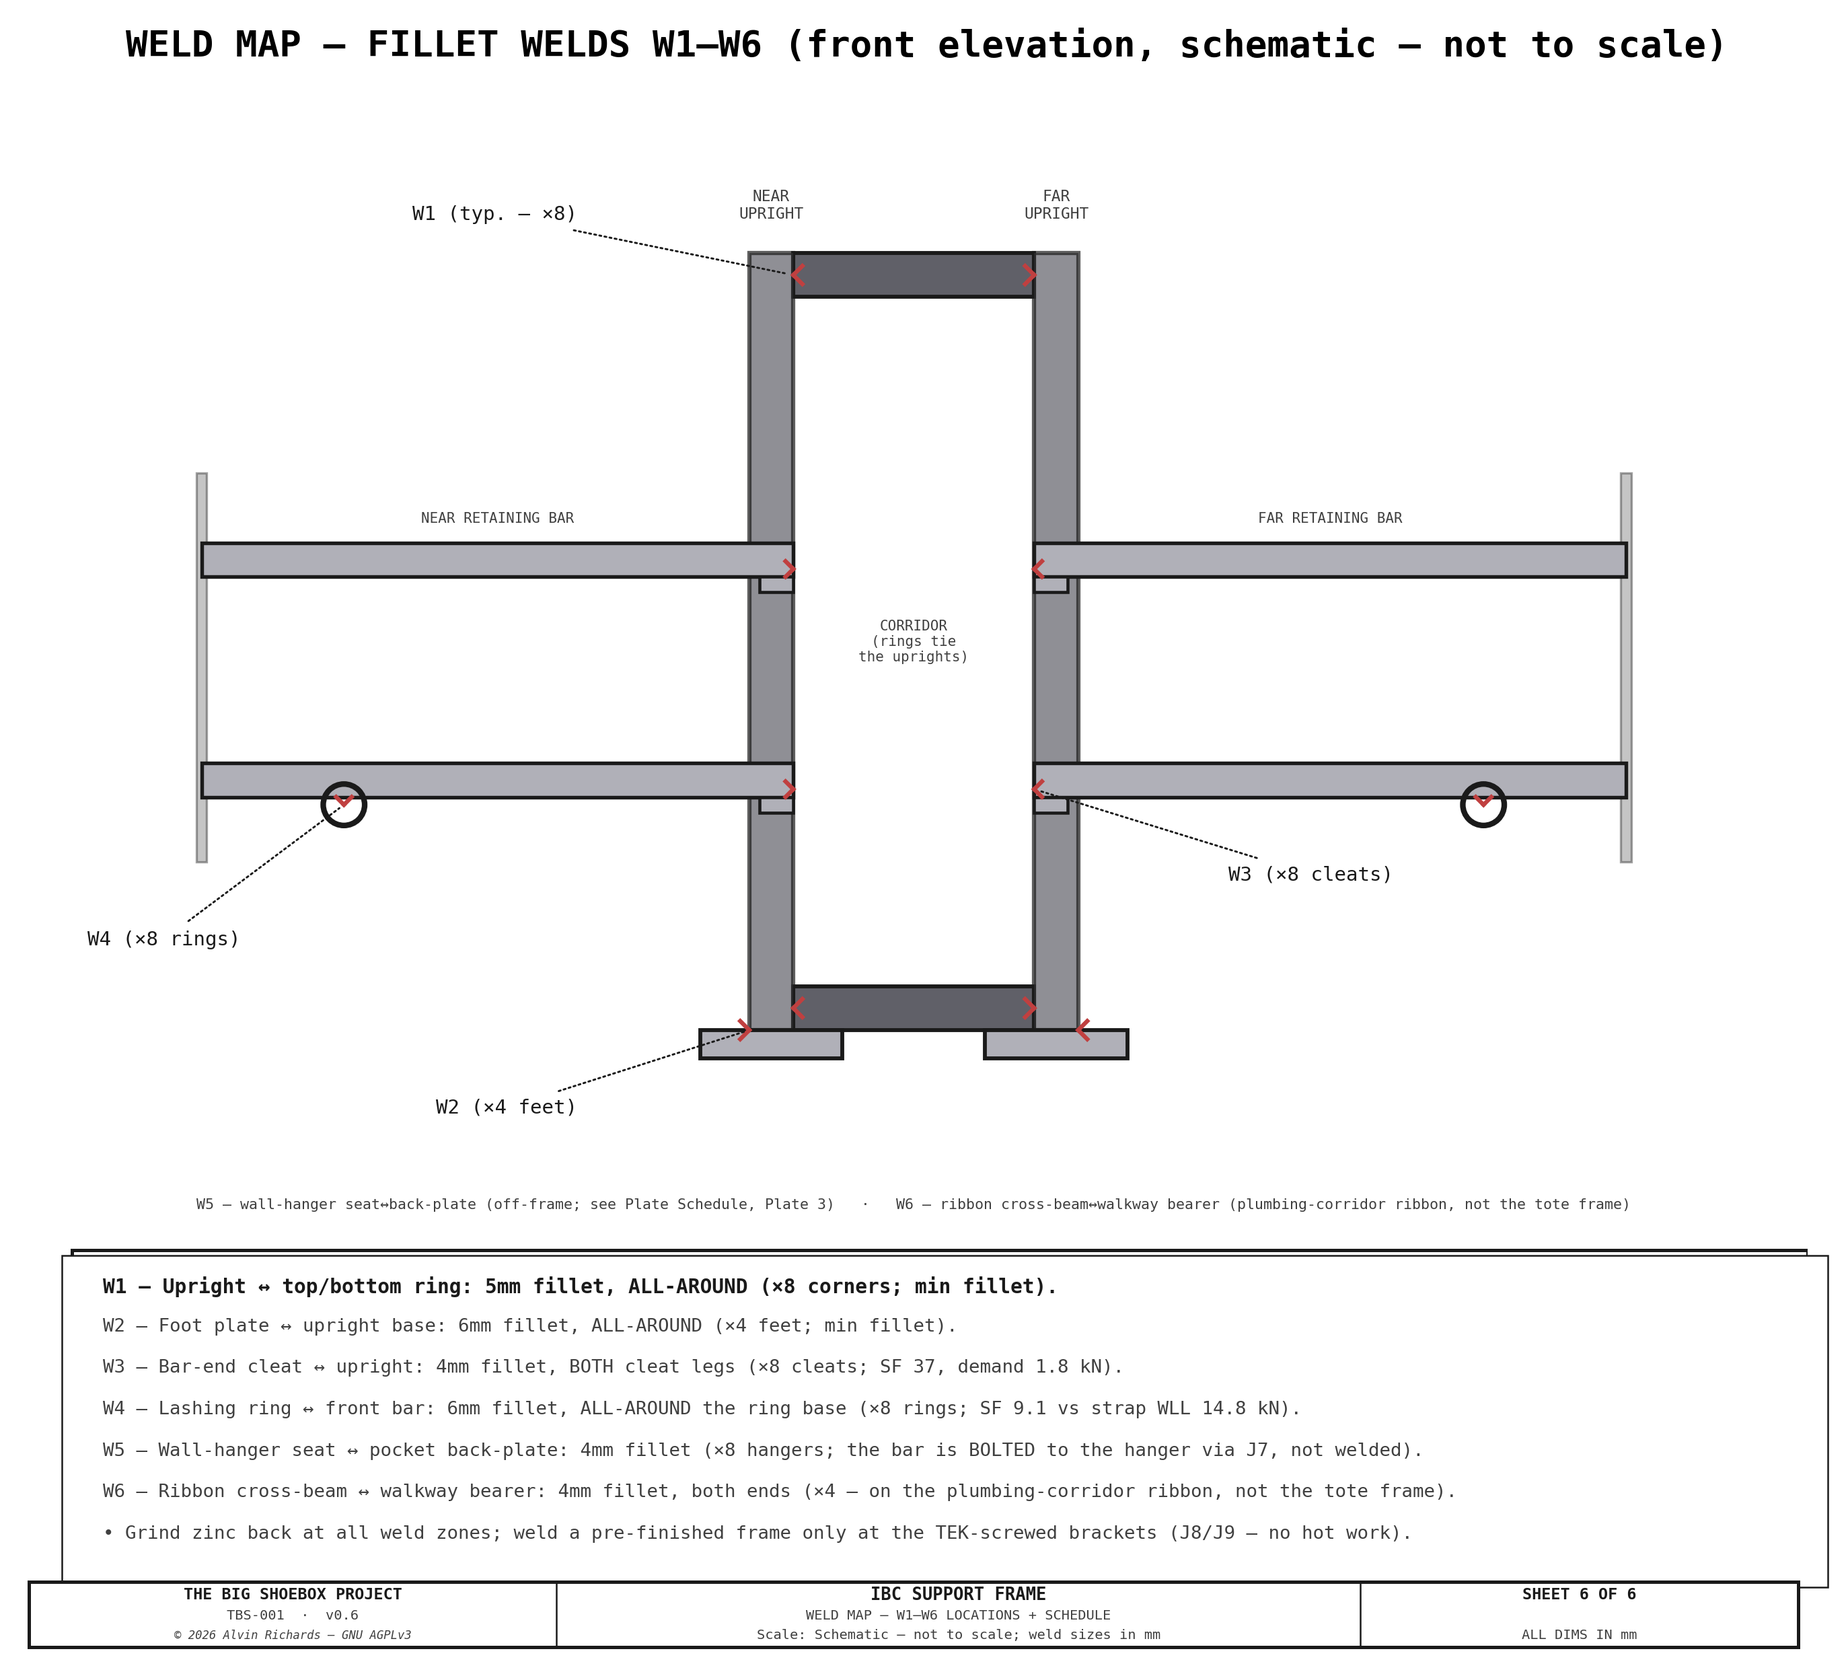
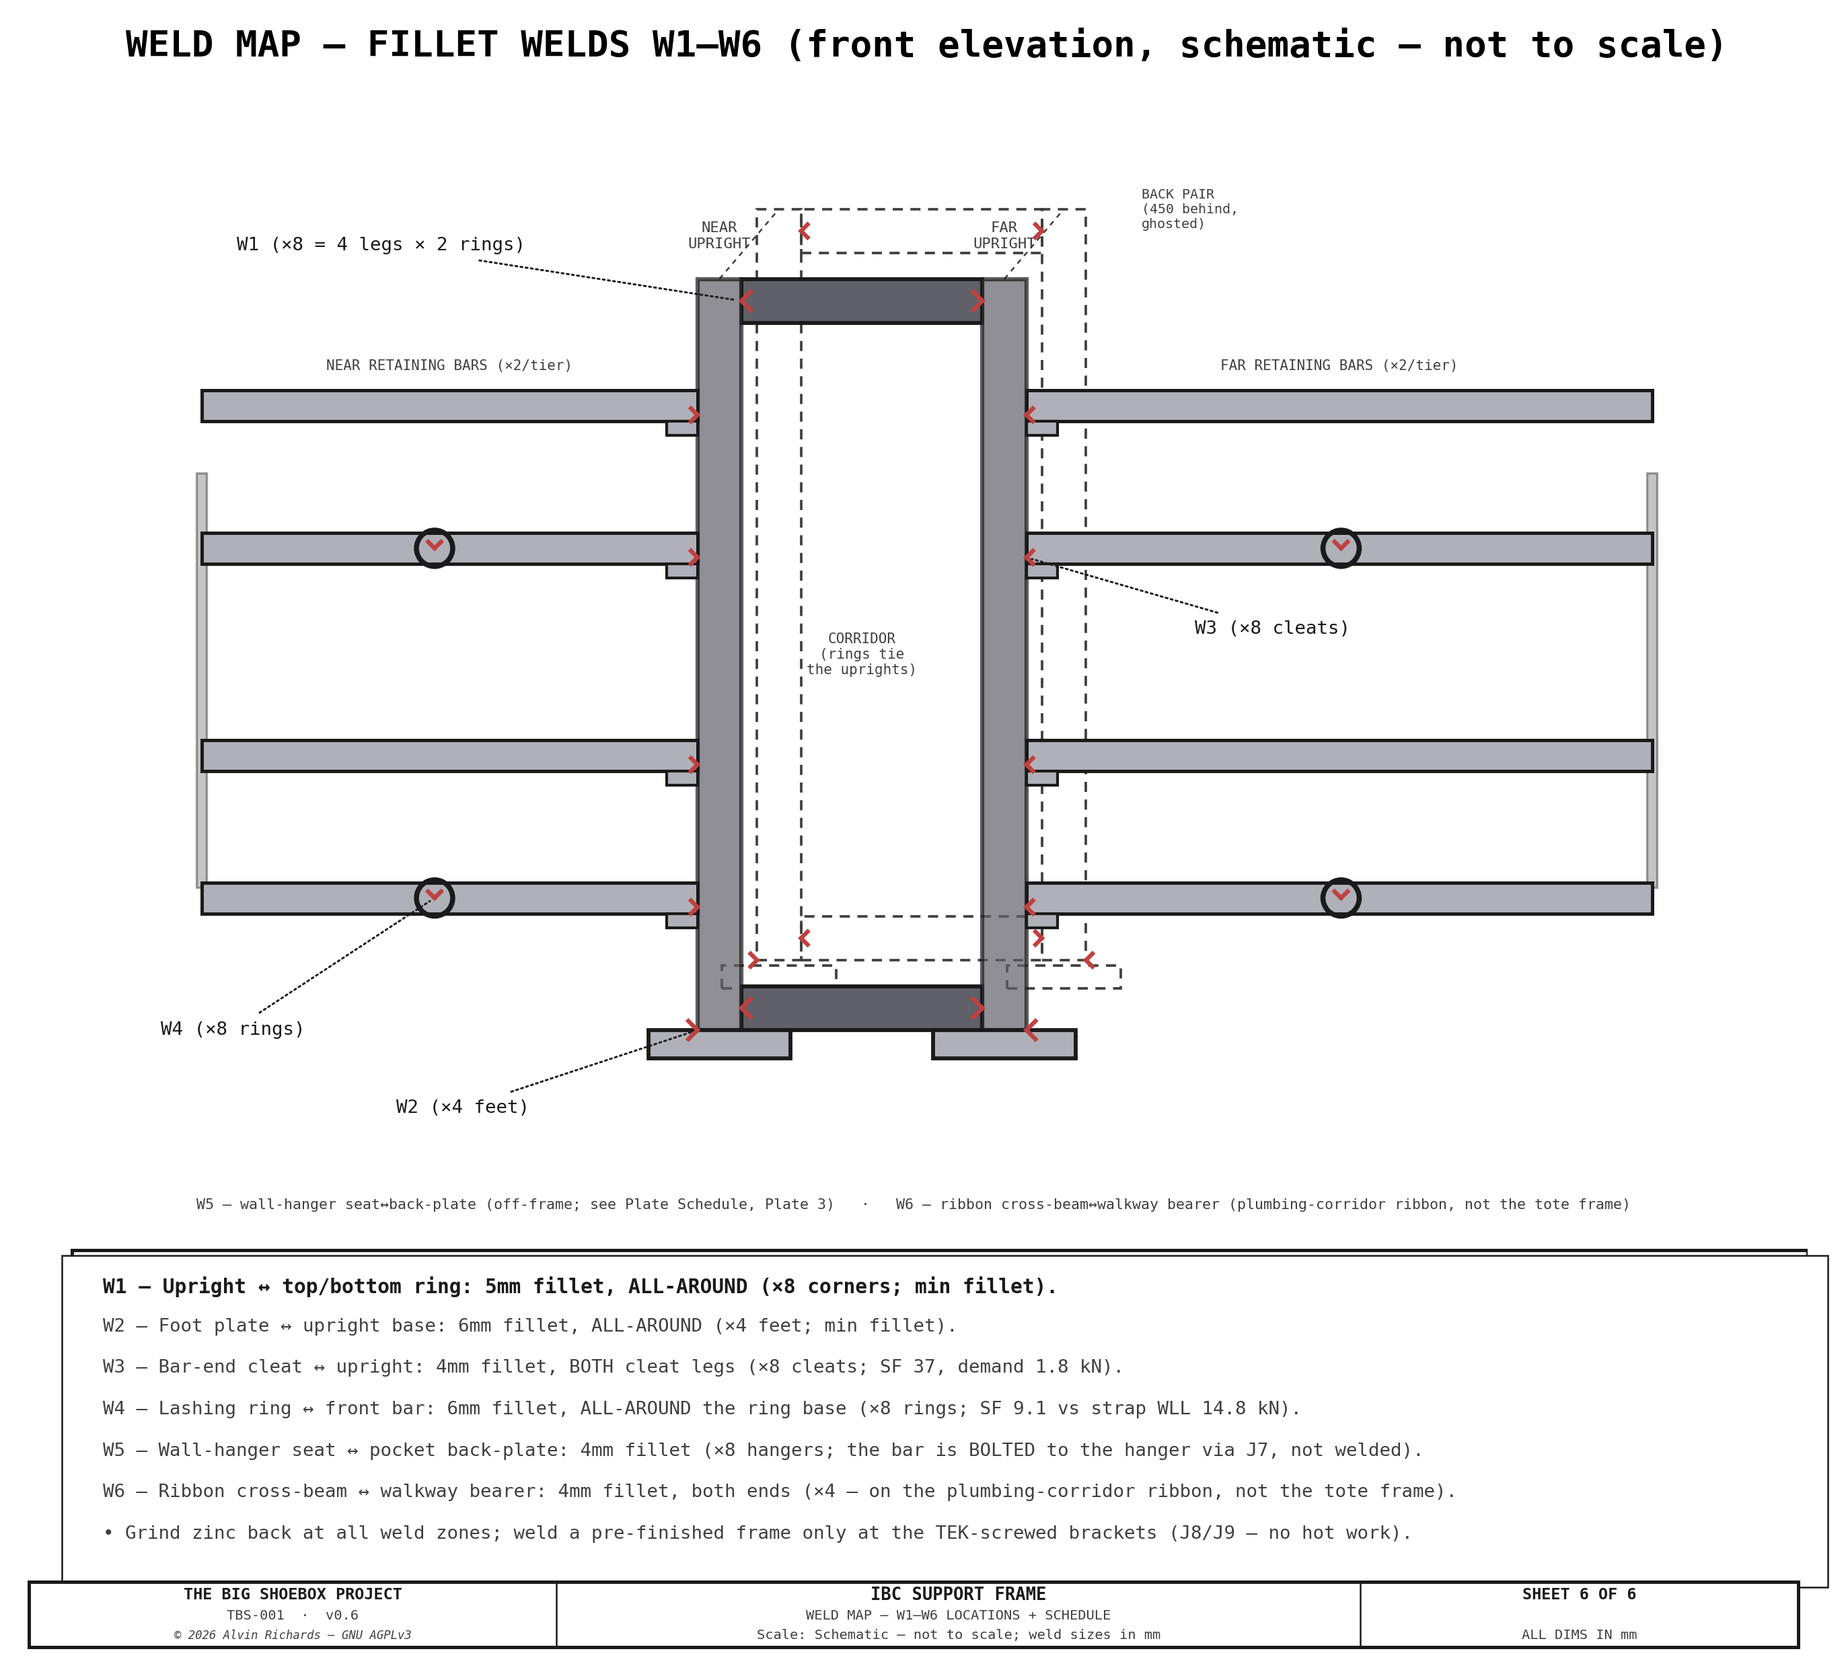
IBC frame sheets: 4 bars + 2-ring/8-weld map (sheet6), outside-edge cleats (1/6), notch TEK (5)
- Sheet 1: cleats moved to the upright's OUTSIDE (column-facing) edge (were on
  the corridor-inside edge); bars now end there.
- Sheet 6: show FOUR retaining bars (2/tier x 2 tiers); ghost the deep box's
  back upright pair so the TWO rings read as 8 ring-welds (W1 x8 = 4 legs x 2
  rings); cleats on the outside edges.
- Sheet 5 VIEW A: #14 TEK hold-down drawn at each half-lap notch.

diff --git a/src/generators/generate_ibc_frame_drawing.py b/src/generators/generate_ibc_frame_drawing.py
@@ -474,8 +474,10 @@ def sheet1():
                 color=C_OUT, lw=2.0, zorder=8)
 
     # Front retaining bars — TWO per tote face (upper + lower), 4 levels total (EN 12195-1 loaded case)
+    # Each bar covers its column and ends at the upright's OUTSIDE (column-facing) edge — NEAR_COL_R / FAR_COL_L —
+    # NOT the corridor-facing inside edge; the cleat is welded to that outside face.
     for bz in (500, 950, 1500, 1950):
-        for y0, y1 in ((0, NEAR_COL_R + FRAME_RHS), (FAR_COL_L - FRAME_RHS, C_WID)):
+        for y0, y1 in ((0, NEAR_COL_R), (FAR_COL_L, C_WID)):
             _rhs_rect(ax, y0, bz, y1 - y0, FRAME_RHS,
                       fc=C_STEEL, alpha=0.55, lw=1.0, zo=9)
     # wall joist hangers — one identical 2-bolt hanger per bar (8 total, fab-identical)
@@ -501,8 +503,9 @@ def sheet1():
         ax.add_patch(Rectangle((hx, z - hh / 2), hl, hh, fc=C_BOLT, ec=C_OUT, lw=0.7, zorder=13))
     for bz in (500, 950, 1500, 1950):
         bmid = bz + FRAME_RHS / 2
-        # corridor ends — near bar ends at NEAR_COL_R+RHS (leg runs −Yd), far bar at FAR_COL_L−RHS (leg runs +Yd)
-        for post_face, din in ((NEAR_COL_R + FRAME_RHS, -1), (FAR_COL_L - FRAME_RHS, +1)):
+        # corridor ends — cleat on the upright's OUTSIDE edge: near at NEAR_COL_R (leg runs −Yd toward the wall),
+        # far at FAR_COL_L (leg runs +Yd toward the wall)
+        for post_face, din in ((NEAR_COL_R, -1), (FAR_COL_L, +1)):
             ax.add_patch(Rectangle((min(post_face, post_face + din * 8), bz - 10), 8, FRAME_RHS + 20,
                                    fc=C_FRAME, ec=C_OUT, lw=0.9, zorder=8))          # cleat upstand (welded to the upright — W3)
             ax.add_patch(Rectangle((min(post_face, post_face + din * 90), bz - 11), 90, 11,
@@ -600,13 +603,13 @@ def sheet1():
            color=C_OUT, fs=5.5, ha="left", va="top",
            arrow_style="-|>", font=FONT)
 
-    leader(ax, (NEAR_COL_R + FRAME_RHS), (1760 + FRAME_RHS / 2),
+    leader(ax, (NEAR_COL_R - 60), (1760 + FRAME_RHS / 2),
            (NEAR_COL_R - 70), (1900),
            "FRONT RETAINING BARS (×8, 2/tier)\n50×20×3 RHS at IBC front\n(25mm gap), Z500/950 + Z1500/1950 — slide-stop\n+ weld-on ring lash points",
            color=C_OUT, fs=5.5, ha="left", va="bottom",
            arrow_style="-|>", font=FONT)
 
-    leader(ax, (NEAR_COL_R + FRAME_RHS - 45), (1500 + FRAME_RHS / 2),
+    leader(ax, (NEAR_COL_R - 40), (1500 + FRAME_RHS / 2),
            (NEAR_COL_R - 60), (1330),
            "J2 CORRIDOR-END CLEAT (×8)\nL-cleat welded to the upright (W3);\nbar bolts down 2× M12×65 (J2)\n— see Sheet 4 Det B / Plate 4",
            color=C_OUT, fs=5.5, ha="left", va="top",
@@ -1298,6 +1301,11 @@ def sheet5():
         ax.add_patch(Rectangle((n0, hlz), n1 - n0, (az + ah/2) - hlz, fc=BG, ec="none", zorder=6))
         ax.add_patch(Rectangle((n0, hlz), n1 - n0, (az + ah/2) - hlz, lw=1.2, zorder=7, **_hatch))
         ax.plot([n0, n1], [hlz, hlz], color=C_OUT, lw=1.0, zorder=8)                       # half-lap line
+        xc = (n0 + n1) / 2                                                                 # #14 TEK hold-down at EACH lap (tip + post) — from the underside up into the walkway beam
+        ax.plot([xc, xc], [az - ah/2 - 12, az + ah/2 - 4], color=C_OUT, lw=1.5, zorder=9)  # TEK shank (through the arm, into the beam)
+        ax.add_patch(Circle((xc, az - ah/2 - 12), 4.5, fc=C_BOLT, ec=C_OUT, lw=0.7, zorder=10))  # TEK head (underside)
+    leader(ax, (XIN0 + XIN1) / 2, az - ah/2 - 12, XT + 20, az - ah/2 - 78,
+           "#14 TEK hold-down\n(×4 — 1 per lap; see detail)", fs=5.3, font=FONT, ha="left")
     ax.text((XIN1 + XOUT0)/2, az, "2×1 SOLID STEEL BAR", fontsize=7.5, ha="center", va="center", **FONT, zorder=8)
     leader(ax, (XIN0+XIN1)/2, az + ah/2, (XIN0+XIN1)/2 + 55, az + 84, "inner long beam\n(at the arm tip)", fs=6, font=FONT, ha="left")
     leader(ax, (XOUT0+XOUT1)/2, az + ah/2, (XOUT0+XOUT1)/2 - 55, az + 84, "outer long beam\n(post end)", fs=6, font=FONT, ha="right")
@@ -1434,56 +1442,77 @@ def sheet6():
     ax.text(680, 872, "WELD MAP — FILLET WELDS W1–W6 (front elevation, schematic — not to scale)",
             fontsize=13, fontweight="bold", ha="center", **FONT)
 
-    # Schematic front bay: the TWO CORRIDOR uprights (near + far, close together, tied by the top/bottom
-    # rings ACROSS the corridor gap), their feet, and the front retaining bars that project OUTWARD from
-    # each upright to the side walls.  The corridor between the uprights carries NO bar — only the rings.
+    # Schematic of the DEEP 4-leg box: the FRONT corridor upright pair (near + far, solid) PLUS the BACK
+    # pair 450mm behind (ghosted, offset up-right) — TWO rings (top + bottom), each a rectangular loop that
+    # ties all 4 legs, so W1 = 4 legs × 2 rings = 8 welds.  The FOUR front retaining bars (2 per tier ×
+    # 2 tiers) project OUTWARD from the front uprights to the side walls; the corridor gap carries no bar.
     upw = 34
-    xL, xR = 560, 780                                  # near / far corridor uprights (the pair, close together)
-    zb, zt = 120, 720                                  # base (foot top) / top
+    xL, xR = 520, 740                                  # near / far FRONT corridor uprights (the pair, close together)
+    zb, zt = 120, 700                                  # base (foot top) / top
     xLi, xRi = xL + upw / 2, xR - upw / 2              # inner (corridor-facing) faces
-    wallL, wallR = 120, 1220                           # schematic side-wall positions the bars reach
+    wallL, wallR = 120, 1240                           # schematic side-wall positions the bars reach
+    bxo, bzo = 46, 54                                  # back-bay ghost offset (isometric hint)
     for wx in (wallL, wallR):                          # side walls (context)
-        ax.add_patch(Rectangle((wx - 4, 250), 8, 300, fc=C_CAGE, ec=C_OUT, lw=0.8, alpha=0.4, zorder=2))
+        ax.add_patch(Rectangle((wx - 4, 230), 8, 320, fc=C_CAGE, ec=C_OUT, lw=0.8, alpha=0.4, zorder=2))
+    # BACK bay (ghost, dashed): the 450mm-behind upright pair + its top/bottom rings + feet — this is WHY
+    # there are 2 rings and 8 ring-welds (the front bay shows only 4 of them).
+    _gh = dict(fc="none", ec=C_DIM, lw=0.9, ls=(0, (4, 3)), zorder=2)
+    for ux in (xL, xR):
+        ax.add_patch(Rectangle((ux - upw / 2 + bxo, zb + bzo), upw, zt - zb, **_gh))                    # back upright
+        ax.add_patch(Rectangle((ux - 44 + bxo, zb - 22 + bzo), 88, 18, **_gh))                          # back foot
+        ax.plot([ux, ux + bxo], [zt, zt + bzo], color=C_DIM, lw=0.6, ls=(0, (3, 3)), zorder=2)          # front→back depth edge
+    for rz in (zb, zt - upw):
+        ax.add_patch(Rectangle((xLi + bxo, rz + bzo), xRi - xLi, upw, **_gh))                           # back ring
+    # FRONT bay: uprights + feet + the two rings (solid)
     for ux in (xL, xR):
         _rhs_rect(ax, ux - upw / 2, zb, upw, zt - zb, fc=C_FRAME, zo=5)          # upright
         ax.add_patch(Rectangle((ux - 55, zb - 22), 110, 22, fc=C_STEEL, ec=C_OUT, lw=1.4, zorder=6))  # foot plate
-    for rz in (zb, zt - upw):                          # bottom + top rings tie the two uprights across the corridor
+    for rz in (zb, zt - upw):                          # bottom + top rings tie the near+far uprights across the corridor
         ax.add_patch(Rectangle((xLi, rz), xRi - xLi, upw, fc=C_FRAME, ec=C_OUT, lw=1.4, zorder=4))
-    # retaining bars: NEAR bar wall→near upright (projects LEFT), FAR bar far upright→wall (projects RIGHT) —
-    # each ends (cleated) at its upright's inner face; the corridor gap between the uprights has no bar.
-    for bz in (300, 470):
-        ax.add_patch(Rectangle((wallL, bz), xLi - wallL, 26, fc=C_STEEL, ec=C_OUT, lw=1.3, zorder=6))   # NEAR bar
-        ax.add_patch(Rectangle((xRi, bz), wallR - xRi, 26, fc=C_STEEL, ec=C_OUT, lw=1.3, zorder=6))     # FAR bar
-        ax.add_patch(Rectangle((xLi - 26, bz - 12), 26, 12, fc=C_STEEL, ec=C_OUT, lw=1.1, zorder=7))    # near cleat leg (under the bar)
-        ax.add_patch(Rectangle((xRi, bz - 12), 26, 12, fc=C_STEEL, ec=C_OUT, lw=1.1, zorder=7))         # far cleat leg
-    for rx in (230, 1110):                             # lashing ring on the lower bar (one per bar)
-        ax.add_patch(Circle((rx, 300 - 6), 16, fc="none", ec=C_OUT, lw=2.0, zorder=8))
+    # FOUR retaining bars (2 per tier × 2 tiers): each covers its column and ends (cleated) at the upright's
+    # OUTSIDE (column-facing) edge — near = xLo, far = xRo — extending outward to the wall; corridor carries no bar.
+    xLo, xRo = xL - upw / 2, xR + upw / 2               # upright OUTSIDE (column-facing) edges
+    bar_zs = (210, 320, 480, 590)                      # lower tier (210,320) + upper tier (480,590)
+    for bz in bar_zs:
+        ax.add_patch(Rectangle((wallL, bz), xLo - wallL, 24, fc=C_STEEL, ec=C_OUT, lw=1.2, zorder=6))   # NEAR bar
+        ax.add_patch(Rectangle((xRo, bz), wallR - xRo, 24, fc=C_STEEL, ec=C_OUT, lw=1.2, zorder=6))     # FAR bar
+        ax.add_patch(Rectangle((xLo - 24, bz - 11), 24, 11, fc=C_STEEL, ec=C_OUT, lw=1.0, zorder=7))    # near cleat leg (outside edge)
+        ax.add_patch(Rectangle((xRo, bz - 11), 24, 11, fc=C_STEEL, ec=C_OUT, lw=1.0, zorder=7))         # far cleat leg (outside edge)
+    for bz in (210, 480):                              # lashing rings on the LOWER bar of each tier (near + far)
+        for rx in (300, 1000):
+            ax.add_patch(Circle((rx, bz + 12), 14, fc="none", ec=C_OUT, lw=1.8, zorder=8))
     ax.text((xLi + xRi) / 2, zb + (zt - zb) / 2, "CORRIDOR\n(rings tie\nthe uprights)", fontsize=5.0, ha="center", va="center", color=C_DIM, **FONT)
-    ax.text(xL, zt + 24, "NEAR\nUPRIGHT", fontsize=5.5, ha="center", va="bottom", color=C_DIM, **FONT)
-    ax.text(xR, zt + 24, "FAR\nUPRIGHT", fontsize=5.5, ha="center", va="bottom", color=C_DIM, **FONT)
-    ax.text((wallL + xLi) / 2, 470 + 42, "NEAR RETAINING BAR", fontsize=5.0, ha="center", color=C_DIM, **FONT)
-    ax.text((xRi + wallR) / 2, 470 + 42, "FAR RETAINING BAR", fontsize=5.0, ha="center", color=C_DIM, **FONT)
+    ax.text(xL, zt + 22, "NEAR\nUPRIGHT", fontsize=5.3, ha="center", va="bottom", color=C_DIM, **FONT)
+    ax.text(xR, zt + 22, "FAR\nUPRIGHT", fontsize=5.3, ha="center", va="bottom", color=C_DIM, **FONT)
+    ax.text(xR + bxo + 60, zt + bzo, "BACK PAIR\n(450 behind,\nghosted)", fontsize=4.8, ha="left", va="center", color=C_DIM, **FONT)
+    ax.text((wallL + xLo) / 2, 590 + 40, "NEAR RETAINING BARS (×2/tier)", fontsize=5.0, ha="center", color=C_DIM, **FONT)
+    ax.text((xRo + wallR) / 2, 590 + 40, "FAR RETAINING BARS (×2/tier)", fontsize=5.0, ha="center", color=C_DIM, **FONT)
 
-    # EVERY weld instance is ticked (symmetric near↔far); each type is labelled ONCE with its total count.
-    # W1 — upright↔ring: BOTH uprights × BOTH rings = 4 inner corners (×8 with the back bay)
+    # EVERY weld instance is ticked; each type is labelled ONCE with its total count.
+    # W1 — upright↔ring: 4 FRONT legs-corners + 4 BACK (ghost) = 8 (2 rings × 4 legs)
     for ry in (zt - upw / 2, zb + upw / 2):
         _weld_tick(ax, xLi, ry, side='right', size=7)
         _weld_tick(ax, xRi, ry, side='left', size=7)
-    # W2 — foot↔upright base: BOTH feet
-    _weld_tick(ax, xL - upw / 2, zb, side='left', size=7)
-    _weld_tick(ax, xR + upw / 2, zb, side='right', size=7)
-    # W3 — bar-end cleat↔upright: ALL cleats (2 bars × 2 ends shown; 8 total on the frame)
-    for bz in (300, 470):
-        _weld_tick(ax, xLi, bz + 6, side='left', size=6)
-        _weld_tick(ax, xRi, bz + 6, side='right', size=6)
-    # W4 — lashing ring↔bar: BOTH rings
-    for rx in (230, 1110):
-        _weld_tick(ax, rx, 300 - 6, side='up', size=6)
-    # one leader per weld TYPE (all instances above are ticked; the leader names the type + count)
-    leader(ax, xLi, zt - upw / 2, xL - 150, zt + 30, "W1 (typ. — ×8)", fs=7, font=FONT, ha="right")
-    leader(ax, xL - upw / 2, zb, xL - 150, zb - 60, "W2 (×4 feet)", fs=7, font=FONT, ha="right")
-    leader(ax, xRi, 306, xRi + 150, 240, "W3 (×8 cleats)", fs=7, font=FONT, ha="left")
-    leader(ax, 230, 300 - 6, 150, 190, "W4 (×8 rings)", fs=7, font=FONT, ha="right")
+        _weld_tick(ax, xLi + bxo, ry + bzo, side='right', size=5)                # back ring (ghost)
+        _weld_tick(ax, xRi + bxo, ry + bzo, side='left', size=5)
+    # W2 — foot↔upright base: 2 front feet + 2 back (ghost) = 4
+    _weld_tick(ax, xLo, zb, side='left', size=7)
+    _weld_tick(ax, xRo, zb, side='right', size=7)
+    _weld_tick(ax, xLo + bxo, zb + bzo, side='left', size=5)
+    _weld_tick(ax, xRo + bxo, zb + bzo, side='right', size=5)
+    # W3 — bar-end cleat↔upright (OUTSIDE edge): ALL 8 cleats (4 bars × 2 ends)
+    for bz in bar_zs:
+        _weld_tick(ax, xLo, bz + 5, side='left', size=5)
+        _weld_tick(ax, xRo, bz + 5, side='right', size=5)
+    # W4 — lashing ring↔bar
+    for bz in (210, 480):
+        for rx in (300, 1000):
+            _weld_tick(ax, rx, bz + 12, side='up', size=5)
+    # one leader per weld TYPE
+    leader(ax, xLi, zt - upw / 2, xL - 150, zt + 26, "W1 (×8 = 4 legs × 2 rings)", fs=6.6, font=FONT, ha="right")
+    leader(ax, xLo, zb, xLo - 130, zb - 60, "W2 (×4 feet)", fs=6.6, font=FONT, ha="right")
+    leader(ax, xRo, 485, xRo + 130, 430, "W3 (×8 cleats)", fs=6.6, font=FONT, ha="left")
+    leader(ax, 300, 210 + 12, 200, 120, "W4 (×8 rings)", fs=6.6, font=FONT, ha="right")
     ax.text(670, -18, "W5 — wall-hanger seat↔back-plate (off-frame; see Plate Schedule, Plate 3)   ·   "
             "W6 — ribbon cross-beam↔walkway bearer (plumbing-corridor ribbon, not the tote frame)",
             fontsize=5.2, ha="center", color=C_DIM, **FONT)

diff --git a/RELEASE.md b/RELEASE.md
@@ -39,7 +39,11 @@ file** — a release must not ship without a changelog entry:
   retaining bars projecting OUTWARD to the side walls — the earlier "bar spanning between the uprights" read
   was geometrically wrong; Sheet 5 NOTES moved to a single standard block along the bottom (was a nested
   double-box in a right-side cell) and the plan-view through-bolt head/nut now butt the plate faces; Sheet 2
-  J6 rear backing plate shortened (bottom raised to Z56) so it clears the base-ring weld.
+  J6 rear backing plate shortened (bottom raised to Z56) so it clears the base-ring weld. Round-3: Sheet 1
+  cleats moved to the upright's OUTSIDE (column-facing) edge (were on the corridor-inside edge — wrong), and
+  the bars now end there; Sheet 6 redrawn to show FOUR retaining bars (2/tier × 2 tiers) and the deep box's
+  back upright pair ghosted so the TWO rings read as 8 ring-welds (W1 ×8 = 4 legs × 2 rings), with the cleats
+  on the outside edges too; Sheet 5 VIEW A now shows the #14 TEK hold-down at each half-lap notch.
 
 - **IBC frame fab-detail package (Phase D): member cut list, weld map, plate reconcile.** The IBC support
   frame drawing set is now buildable end-to-end. (1) **§3.7 member cut list** — a single-sourced stick
